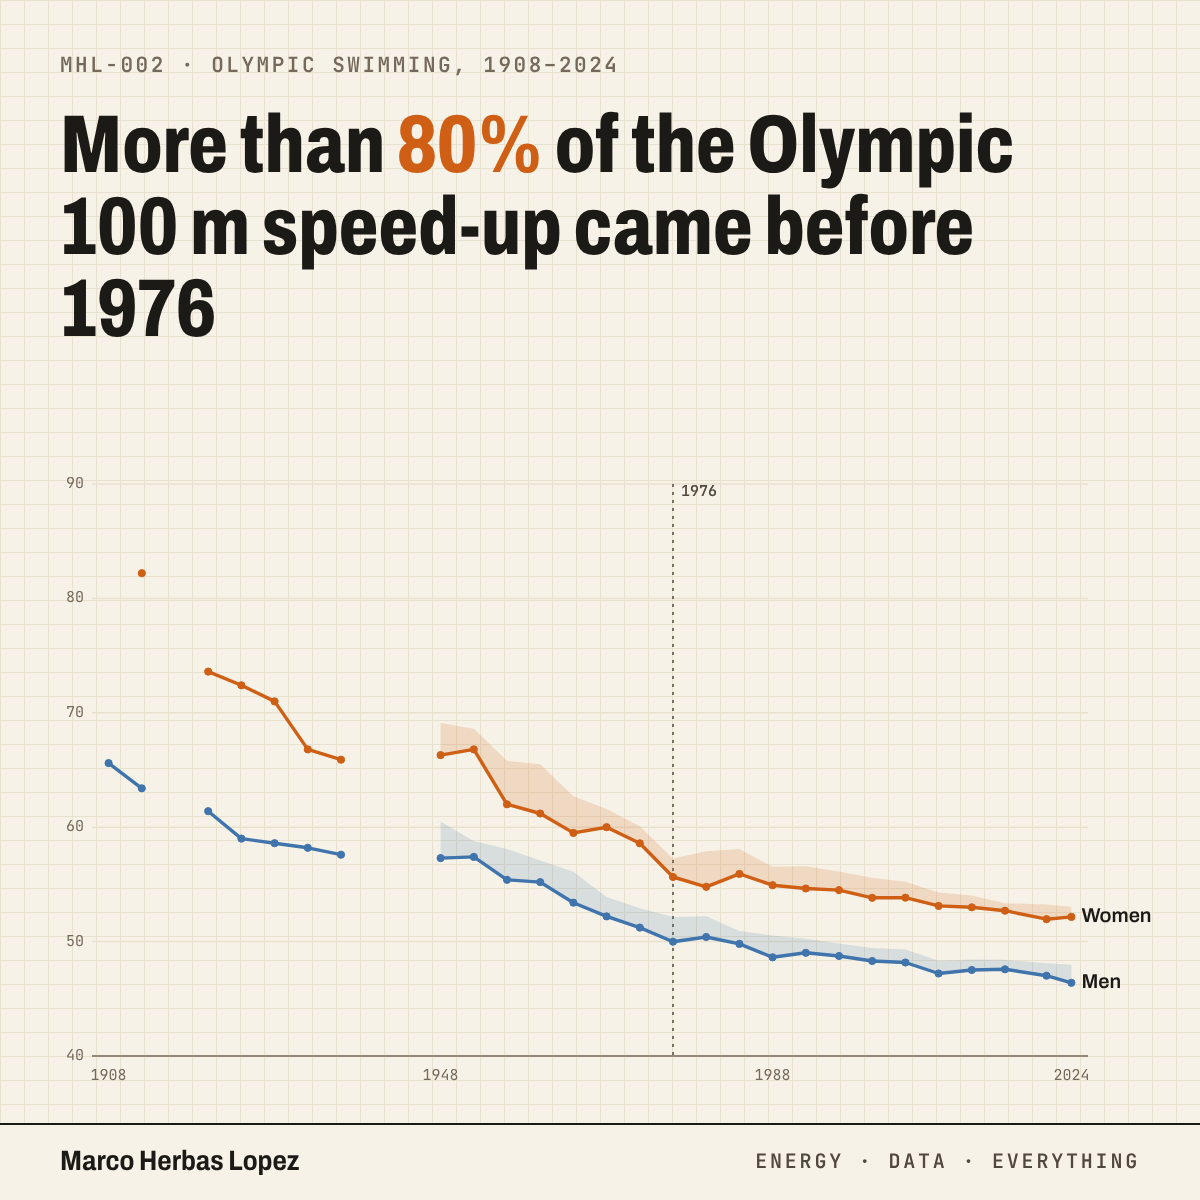
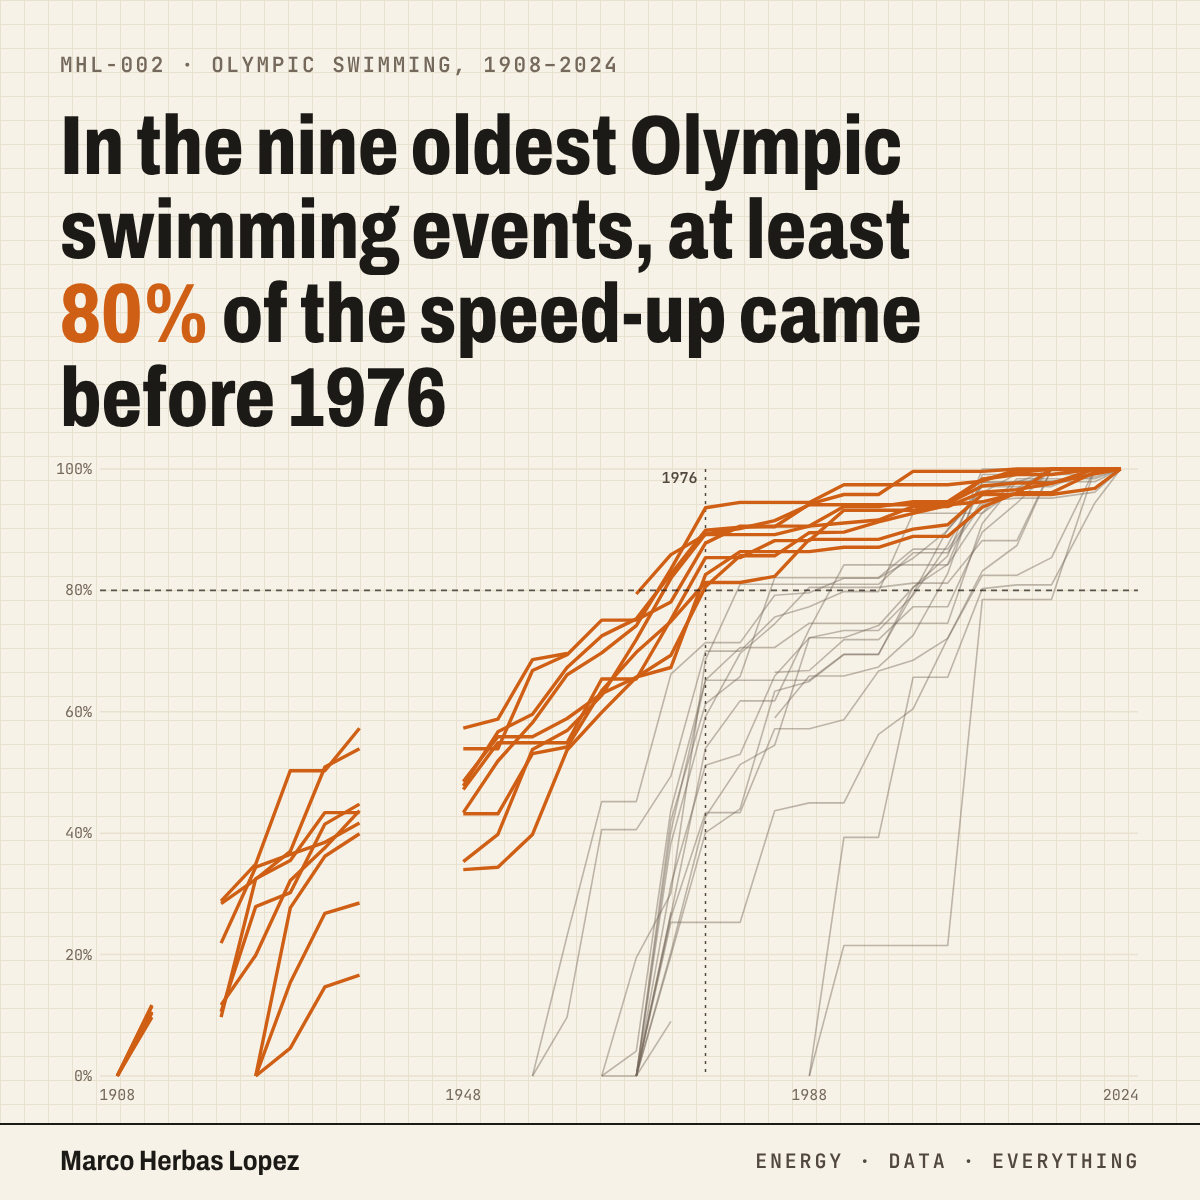
feat(olympic-freestyle-sprint): QA fixes and new link-preview images for rev B
Claude-Session: https://claude.ai/code/session_01GYtgDtGXzygDPGRwaLsN6n

diff --git a/briefs/olympic-freestyle-sprint.md b/briefs/olympic-freestyle-sprint.md
@@ -3,7 +3,7 @@
 - **Slug:** `olympic-freestyle-sprint` (kept: same page and URL, as agreed with Marco on 2026-10-28)
 - **Code:** MHL-002
 - **Revision:** B (scope widened from 50/100 m freestyle to the 28 individual pool events)
-- **Status:** phase 1 approved 2026-10-28 (thesis A, B as closing note; 10 km out); phase 2 (data) done, checks pass; phase 3 (form) waiting for Marco
+- **Status:** rev B built; thesis, form and text approved by Marco 2026-10-28; QA done 2026-10-28, OG images regenerated
 - **Started:** 2026-10-18; rev B started 2026-10-28
 
 ## The one sentence
